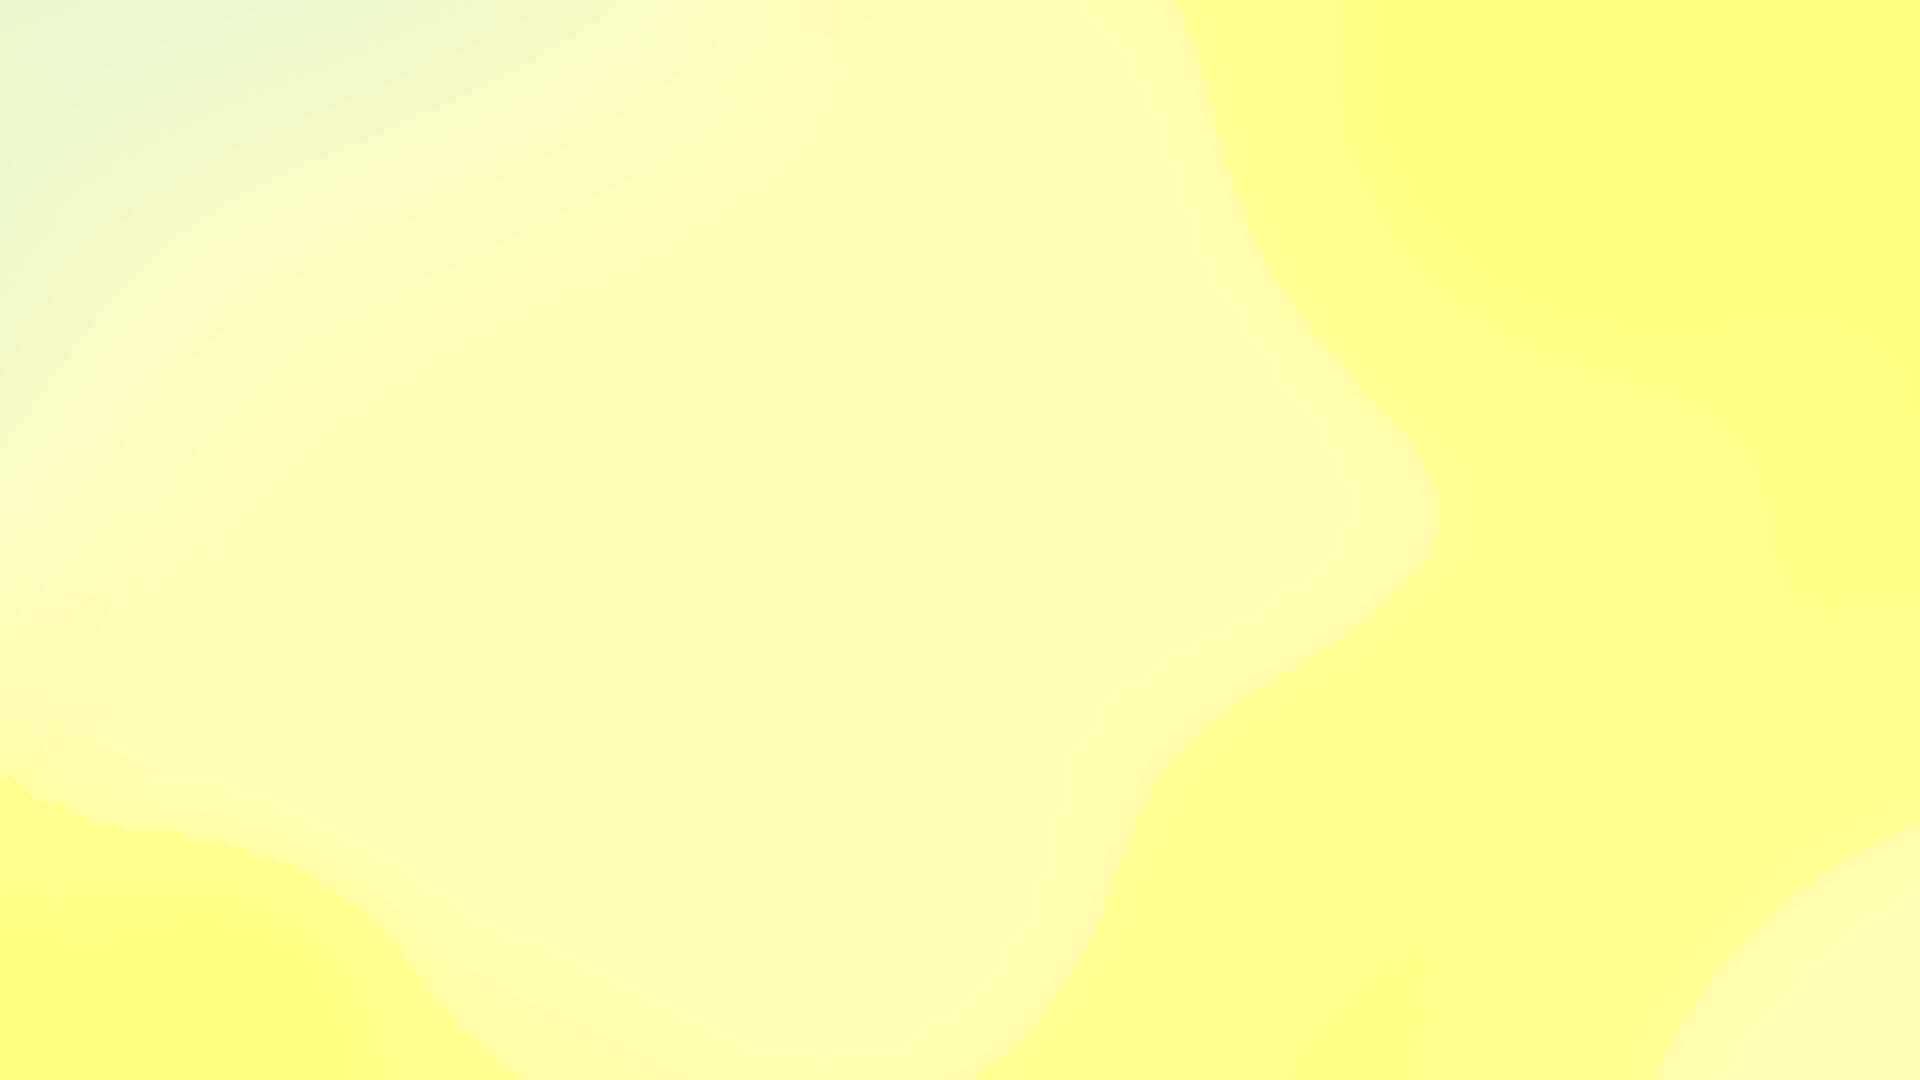
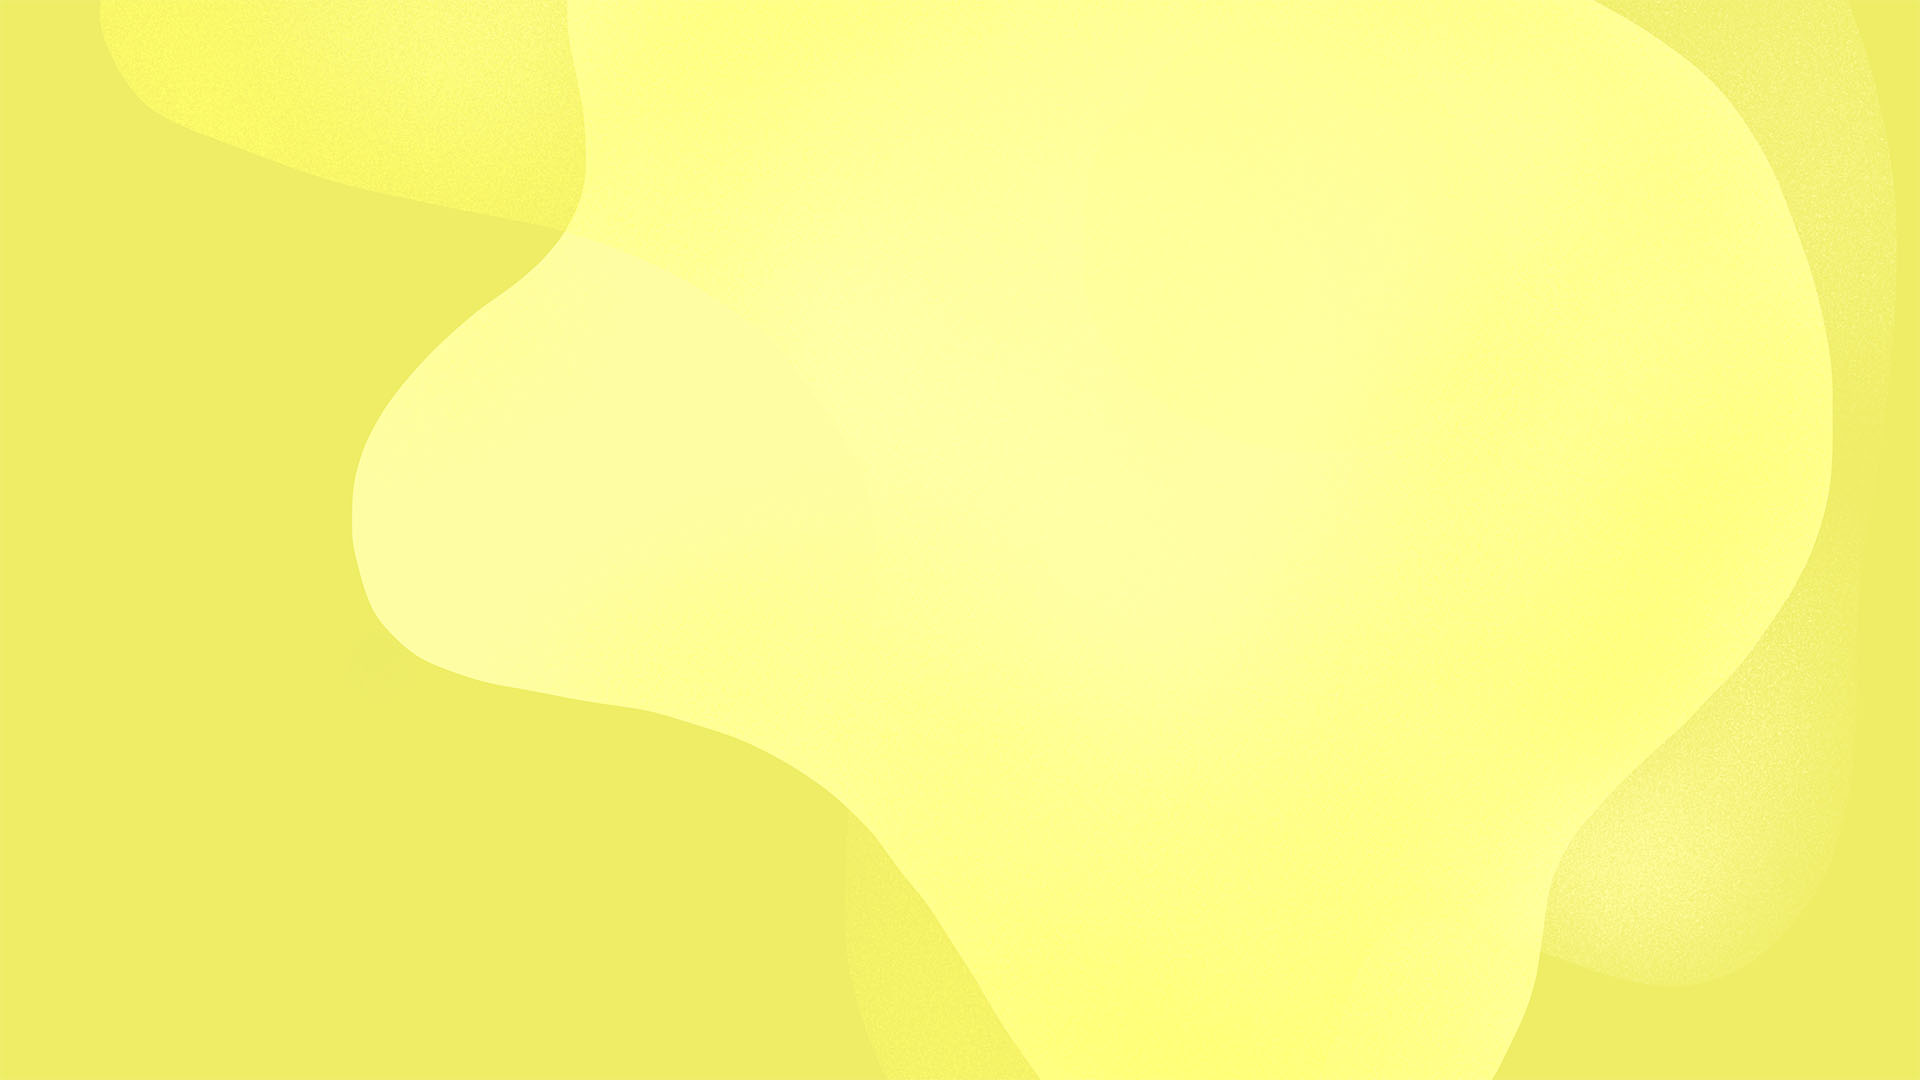
give me fair access background

diff --git a/styles.css b/styles.css
@@ -193,6 +193,10 @@ select {
   background-size: cover;
 }
 
+#bubbleonmyterms:hover {
+  background-image: url("images/windowonmyterms.jpg");
+}
+
 #bubbleseethewholeme {
   mask-image: url("images/bubbleseethewholeme.svg");
   -webkit-mask-image: url("images/bubbleseethewholeme.svg");
@@ -211,6 +215,10 @@ select {
   background: var(--givemefairaccess-color);
   background-image: url("images/gradientgivemefairaccess.jpg");
   background-size: cover;
+}
+
+#bubblegivemefairaccess:hover {
+  background-image: url("images/windowgivemefairaccess.jpg");
 }
 
 #bubblewinbackmytrust {

diff --git a/colors.css b/colors.css
@@ -20,9 +20,9 @@
   --seethewholeme-text-color: white;
   --seethewholeme-conversation-color: #074985;
   --givemefairaccess-color: #EAE617;
-  --givemefairaccess-background-color: #ffff9b;
+  --givemefairaccess-background-color: #ffff7f;
   --givemefairaccess-text-color: black;
-  --givemefairaccess-conversation-color: black;
+  --givemefairaccess-conversation-color: #002d54;
   --winbackmytrust-color: #D80015;
   --winbackmytrust-background-color: #fad8db;
   --winbackmytrust-text-color: white;

diff --git a/givemefairaccess/styles.css b/givemefairaccess/styles.css
@@ -4,3 +4,15 @@
   --text-color: var(--givemefairaccess-text-color);
   --conversation-color: var(--givemefairaccess-conversation-color);
 }
+
+#backgroundcontainer img:nth-child(2) {
+  transform: translate3d(0, 0, 2px) scale(1.02);
+}
+
+#backgroundcontainer img:nth-child(3) {
+  transform: translate3d(-1%, -1%, 3px);
+}
+
+#backgroundcontainer img:nth-child(4) {
+  transform: translate3d(-1.3%, -1.3%, 4px);
+}

diff --git a/givemefairaccess/index.html b/givemefairaccess/index.html
@@ -21,6 +21,9 @@
   <body class="inprogress">
     <div id="backgroundcontainer">
       <img src="../images/backgroundgivemefairaccess.jpg">
+      <img src="../images/backgroundgivemefairaccesslayer1.png">
+      <img src="../images/backgroundgivemefairaccesslayer2.png">
+      <img src="../images/backgroundgivemefairaccesslayer3.png">
     </div>
     <section id="conversation">
       <ol id="messages"></ol>
